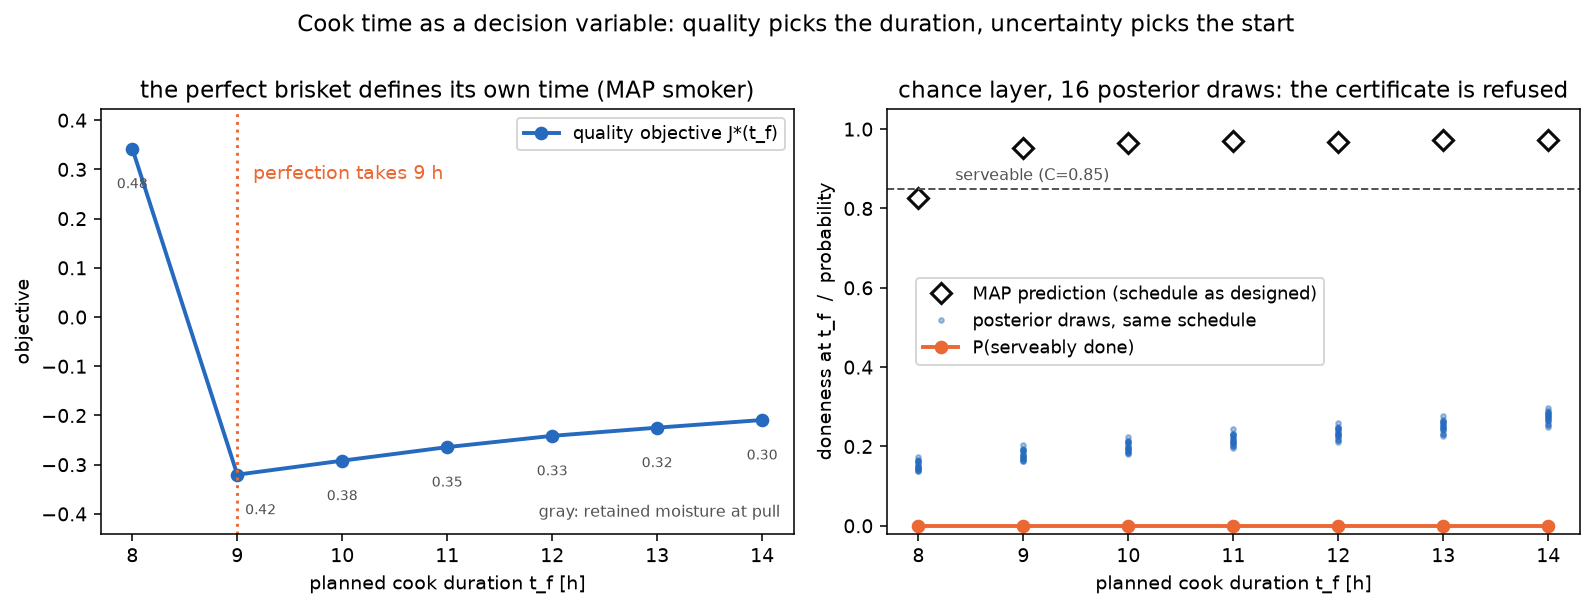
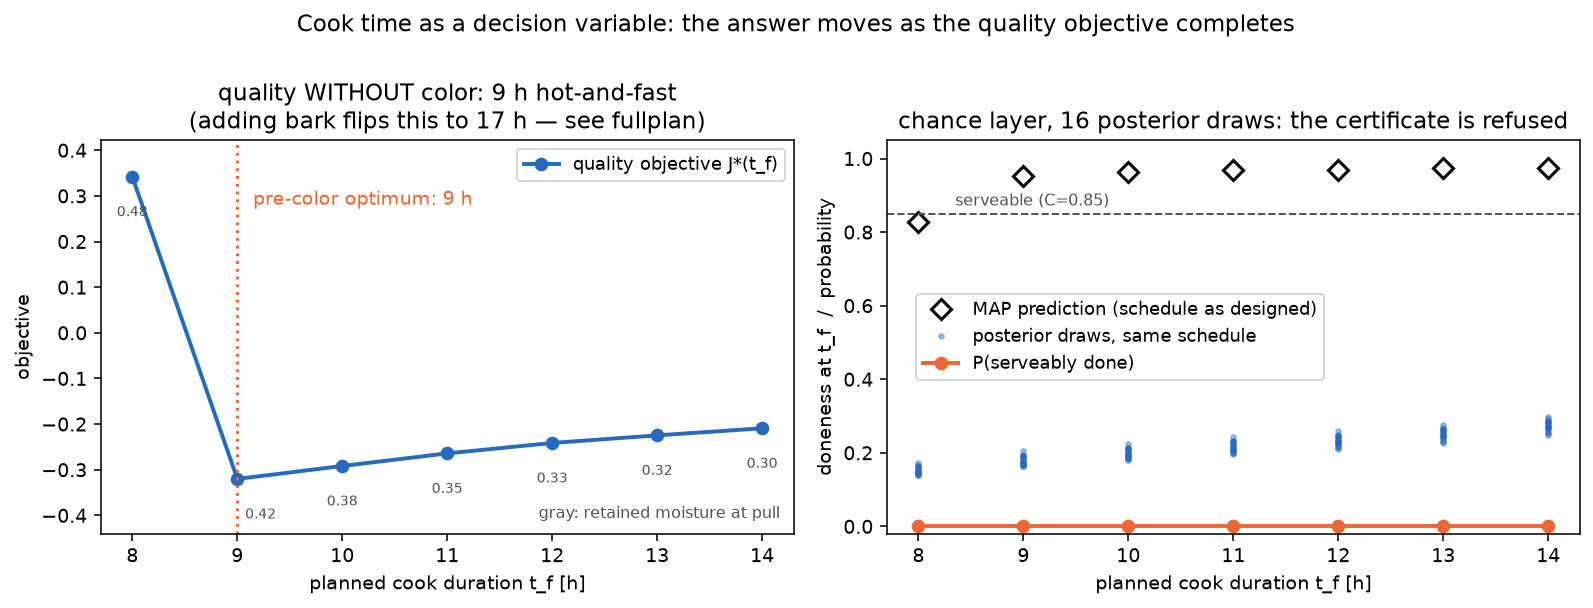
Post-bark documentation sync: counts, narratives, timeplan reframing
122 ODEs and 17/17 composed FD directions everywhere (writeup component
table + gate, README rows, submission drafts); submission one-liner now
"seven ways" with the bark/composition headline; LinkedIn gains the
bark paragraph; key artifacts += fullplan/bark figures. The cook-time
story is reframed as an evolution: quality without color chose 9 h
hot-and-fast, adding bark flipped it to 17 h low-and-slow - "what you
optimize is part of the model." timeplan.png retitled to match (data
unchanged; its chance-layer refusal is untouched).

Figures NOT regenerated because they remain mathematically valid: bark
states are pure integrators with no feedback into T/W/C, so every
calibration/replay/control trajectory figure (cooklog fit, corners,
predictive bands, animation, MPC, control before/after, robust) is
unchanged by the merge.

diff --git a/docs/submission.md b/docs/submission.md
@@ -21,10 +21,13 @@ Multi-physics & coupled systems)
 A charcoal smoker and a brisket as two Julia Tesseracts — a stiff
 heat–moisture PDE with a SciMLSensitivity continuous adjoint and a lumped
 pit ODE with a ForwardDiff Jacobian — composed into one end-to-end
-differentiable JAX function and used five ways: MAP + NUTS Bayesian
+differentiable JAX function and used seven ways: MAP + NUTS Bayesian
 calibration (synthetic and a real 19-hour cook log), damper-schedule
-optimization, robust control in expectation over the posterior, and
-receding-horizon MPC that absorbs an unmodeled cold front.
+optimization, robust control in expectation over the posterior,
+receding-horizon MPC that absorbs an unmodeled cold front, cook-time
+planning, and a mechanistic bark-color model whose gradients cross both
+components — the full composition (duration × wrap × vents) rediscovers
+the traditional ~17 h unwrapped low-and-slow cook.
 
 **Longer description (if the form has a field for it):**
 Real barbecue is a coupled multi-physics control problem: a charcoal pit
@@ -55,7 +58,7 @@ unmodeled −15 K cold front, MPC lands doneness 0.92 vs open-loop's 0.68.
 
 A three-tier gradient verification gate (Julia adjoint vs FD,
 per-endpoint check-gradients, composed FD through the full pipeline —
-15/15) backs every result, and the writeup names the model's deficiencies
+17/17 directions) backs every result, and the writeup names the model's deficiencies
 honestly, including why closed-loop cook logs provably cannot identify the
 pit's fast dynamics. To our knowledge — based on a survey of the mosaic
 suite, the official examples, and the forum — no public example existed of
@@ -65,6 +68,7 @@ interface.
 **Key artifacts:** `docs/writeup.md` (six-criteria writeup) ·
 `figures/cook_animation.gif` · `figures/cooklog_fit_map.png` ·
 `figures/corner.png` · `figures/corner_real.png` · `figures/mpc_demo.png` ·
+`figures/fullplan.png` · `figures/bark_model.png` ·
 `figures/composition_diagram.png` · `docs/verification.md`
 
 ---
@@ -94,14 +98,21 @@ and a robust version optimized in expectation over the posterior.
 
 🔥 Receding-horizon MPC: hit the simulated cook with a cold front the
 controller has never seen, and it re-plans hourly — doneness 0.92 vs 0.68
-for the open-loop schedule. My favorite part: the asymmetric deadline
-objective makes the controller bank heat early as insurance, then ease off
-once the cook is won — nobody programmed that.
+for the open-loop schedule. The asymmetric deadline objective makes the
+controller bank heat early as insurance, then ease off once the cook is
+won — nobody programmed that.
+
+🔥 A mechanistic bark model (Maillard + smoke deposition, smoke flux =
+the pit's own burn rate — gradients cross both physics components). Given
+tenderness + juiciness + color as the objective, the optimizer
+rediscovered the traditional ~17-hour unwrapped low-and-slow brisket —
+and the Texas crutch dropped out of the optimal plan, re-emerging as what
+it really is: a rescue tool for cooks under deadline pressure.
 
 The interesting engineering: a SciMLSensitivity continuous adjoint exposed
 as a Tesseract VJP (to my knowledge a first in public code), two-way
 coupling by an unrolled Picard iteration so the composed gradient is exact,
-and a 15/15 finite-difference verification gate on every parameter.
+and a 17-direction finite-difference verification gate on every parameter and coupling path.
 
 Repo: https://github.com/JRock95/BrisketDynamics
 
@@ -123,9 +134,9 @@ Hi all — my hackathon entry composes two Julia Tesseracts into an
 end-to-end differentiable BBQ simulator, then uses the gradients for
 Bayesian calibration on a real 19-hour cook log and for optimal control.
 
-**The composition.** `brisket-meat` is a 1D heat–moisture PDE (method of
-lines, 120 stiff ODEs, FBDF) whose smoothed evaporative surface BC
-produces the stall; its `vector_jacobian_product` endpoint is a
+**The composition.** `brisket-meat` is a 1D heat–moisture PDE plus surface bark states
+(method of lines, 122 stiff ODEs, FBDF) whose smoothed evaporative surface
+BC produces the stall; its `vector_jacobian_product` endpoint is a
 SciMLSensitivity continuous adjoint (`InterpolatingAdjoint` + `EnzymeVJP`).
 `brisket-pit` is a 3-state charcoal-pit ODE (energy balance, fuel burn,
 Minion-method ignition spread) differentiated with an exact ForwardDiff

diff --git a/docs/writeup.md b/docs/writeup.md
@@ -25,7 +25,7 @@ strategies**, composed in JAX via tesseract-jax:
 
 | Component | Physics | Differentiation |
 |---|---|---|
-| `brisket-meat` | 1D slab heat+moisture PDE, 120 stiff ODEs (method of lines, FBDF), smoothed evaporative surface BC, collagen kinetics | **SciMLSensitivity continuous adjoint** (`InterpolatingAdjoint` + `EnzymeVJP`), exposed as the Tesseract `vector_jacobian_product` |
+| `brisket-meat` | 1D slab heat+moisture PDE + surface bark states (Maillard, smoke deposition), 122 stiff ODEs (method of lines, FBDF), smoothed evaporative surface BC, collagen kinetics | **SciMLSensitivity continuous adjoint** (`InterpolatingAdjoint` + `EnzymeVJP`), exposed as the Tesseract `vector_jacobian_product` |
 | `brisket-pit` | lumped charcoal pit, 3 ODEs (energy balance, fuel burn with smooth burnout taper, Minion-method ignition spread) | **exact dense ForwardDiff Jacobian**, transposed to a VJP |
 
 ![Composition diagram](../figures/composition_diagram.png)
@@ -70,7 +70,7 @@ over non-lid-event observations (likewise for the core probe).
 A three-level gradient verification gate backs this: Julia adjoints vs central
 finite differences (rel. err ≤1e-3, most components ≤1e-5), per-endpoint
 `tesseract-runtime check-gradients`, and a composed FD check of
-`jax.grad(loss ∘ coupled_cook)` — **15/15 pass at 1e-10 tolerances** (every meat parameter, all 7 pit parameters incl. the ignition dynamics, and damper directions)
+`jax.grad(loss ∘ coupled_cook)` — **17/17 directions pass at 1e-10 tolerances** (every meat parameter, all 7 pit parameters incl. the ignition dynamics, damper directions, the wrap time, and the damper→burn-rate→smoke→bark-color chain through both components; the Julia-level suite runs 68 tests incl. 27 adjoint-vs-FD checks)
 (`docs/verification.md` documents the methodology, including why the
 compiled-ReverseDiff-tape variant is *silently wrong* for time-interpolated
 forcings, and the FD conditioning required to verify a parameter that spans
@@ -159,13 +159,15 @@ behavior arising from the objective's asymmetry rather than being
 programmed.
 
 **Cook time as a decision variable** (`figures/timeplan.png`): the perfect
-brisket defines its own time — an outer scan over planned durations, each
-with an inner schedule optimization under a pure quality objective
-(asymmetric doneness + bark constraint + retained moisture), finds a clean
-interior optimum: **9 h** for this calibrated (thin, ~4.3 cm) flat, with
-every extra hour costing ~0.03 retained moisture — the optimizer
-rediscovers hot-and-fast barbecue. The chance layer then asks the NUTS-real
-posterior to certify a start time and receives **an honest refusal**:
+brisket defines its own time — an outer scan over planned durations with an
+inner schedule optimization per duration. Instructively, the answer moved
+as the quality objective completed: with doneness + juiciness alone the
+optimizer chose a **9 h hot-and-fast** cook (`timeplan.png`, left panel);
+adding bark color flipped it to the **~17 h low-and-slow** of the full
+composition below — the clearest demonstration in this project that *what
+you optimize is part of the model*. The chance layer then asks the
+NUTS-real posterior to certify a start time and receives **an honest
+refusal**:
 P(serveably done) = 0 at every duration, because the closed-loop cook log
 never exercised the damper above ~0.35 and the control-relevant pit
 response is unidentified — the *same* damper input yields a 202 °C pit at

diff --git a/README.md b/README.md
@@ -16,7 +16,7 @@ into one end-to-end differentiable function orchestrated from JAX:
 
 | Component | Physics | States | Differentiation strategy |
 |---|---|---|---|
-| **Meat Tesseract** | 1D slab heat + moisture PDE, smoothed evaporative surface BC, collagen kinetics | T, W, C × 40 nodes (120 ODEs, stiff, FBDF) | SciMLSensitivity **continuous adjoint** (`InterpolatingAdjoint` + `EnzymeVJP`) |
+| **Meat Tesseract** | 1D slab heat + moisture PDE, smoothed evaporative surface BC, collagen kinetics, bark states (Maillard + smoke deposition) | T, W, C × 40 nodes + B, S (122 ODEs, stiff, FBDF) | SciMLSensitivity **continuous adjoint** (`InterpolatingAdjoint` + `EnzymeVJP`) |
 | **Pit Tesseract** | Lumped charcoal pit: energy balance + fuel burn + Minion ignition spread | T_pit, m_fuel, ignited fraction (Tsit5) | **Exact dense ForwardDiff Jacobian**, transposed |
 
 The two are coupled **two-way** (pit temperature → meat boundary condition;
@@ -32,13 +32,13 @@ of a SciMLSensitivity continuous adjoint exposed as a Tesseract
 
 | | |
 |---|---|
-| **Gradient correctness** | 3-level FD verification; composed `jax.grad` gate **15/15** at 1e-10 ([docs/verification.md](docs/verification.md)) |
+| **Gradient correctness** | 3-level FD verification; composed `jax.grad` gate **17/17 directions** at 1e-10, incl. the cross-component bark chain ([docs/verification.md](docs/verification.md)) |
 | **Synthetic calibration** | MAP recovers 7/10 params ≤10%; NUTS posterior with truths inside everywhere; the k_m–h_c ridge is the stall's cooling/heating trade-off ([corner](figures/corner.png), [predictive band](figures/posterior_predictive.png)) |
 | **Real-cook capstone** | 19-h WSM cook (digitized with provenance): pit hold tracked ±3 °C, core stall **and** stall break reproduced ([fit](figures/cooklog_fit_map.png), [data](data/cook_log/PROVENANCE.md)) |
 | **Optimal control** | doneness 0.26 → **0.900** on target, surface under bark limit ([before/after](figures/control_before_after.png)) |
 | **Robust control** | expected-objective schedule halves doneness spread across the posterior: 0.780±0.123 → 0.863±0.069 ([comparison](figures/control_robust.png)) |
 | **MPC** | hourly re-planning absorbs an unmodeled −15 K cold front: doneness 0.92 vs 0.68 open-loop ([demo](figures/mpc_demo.png)) |
-| **Cook-time planning** | quality picks the duration (9 h, hot-and-fast); the posterior honestly refuses to certify an open-loop start ([figure](figures/timeplan.png)) |
+| **Cook-time planning** | the answer moved as quality completed (9 h pre-color → 17 h with bark); the posterior honestly refuses to certify an open-loop start ([figure](figures/timeplan.png)) |
 | **Differentiable Texas crutch** | wrap time optimized jointly with the vents against predicted bark color ([figure](figures/wraptime.png)) |
 | **Mechanistic bark model** | Maillard + smoke deposition as meat states, smoke flux = pit burn rate; hot-fast vs low-slow vs wrap reproduced ([figure](figures/bark_model.png)) |
 | **The full composition** | duration × wrap × vents jointly optimized rediscovers the traditional ~17 h unwrapped low-and-slow ([figure](figures/fullplan.png)) |

diff --git a/docs/roadmap.md b/docs/roadmap.md
@@ -47,9 +47,10 @@ dependency ordering that matters.
    eligibility).
 9. *Stretch, only if 1–8 are done — in this order:*
    1. ✅ **Cook time as a decision variable** — implemented as the
-      outer-scan planner (`timeplan.py`, `figures/timeplan.png`): quality
-      finds an interior optimum (9 h, hot-and-fast; each extra hour costs
-      ~0.03 retained moisture), and the chance layer's honest refusal —
+      outer-scan planner (`timeplan.py`, `figures/timeplan.png`): the
+      pre-color quality objective found 9 h hot-and-fast, superseded by
+      the bark-complete full composition (17 h low-and-slow,
+      `figures/fullplan.png`), and the chance layer's honest refusal —
       P(done) = 0 on all durations, 84 °C pit disagreement between MAP and
       posterior under the same damper — demonstrates the closed-loop
       identifiability limit in decision space. Differentiable-duration
